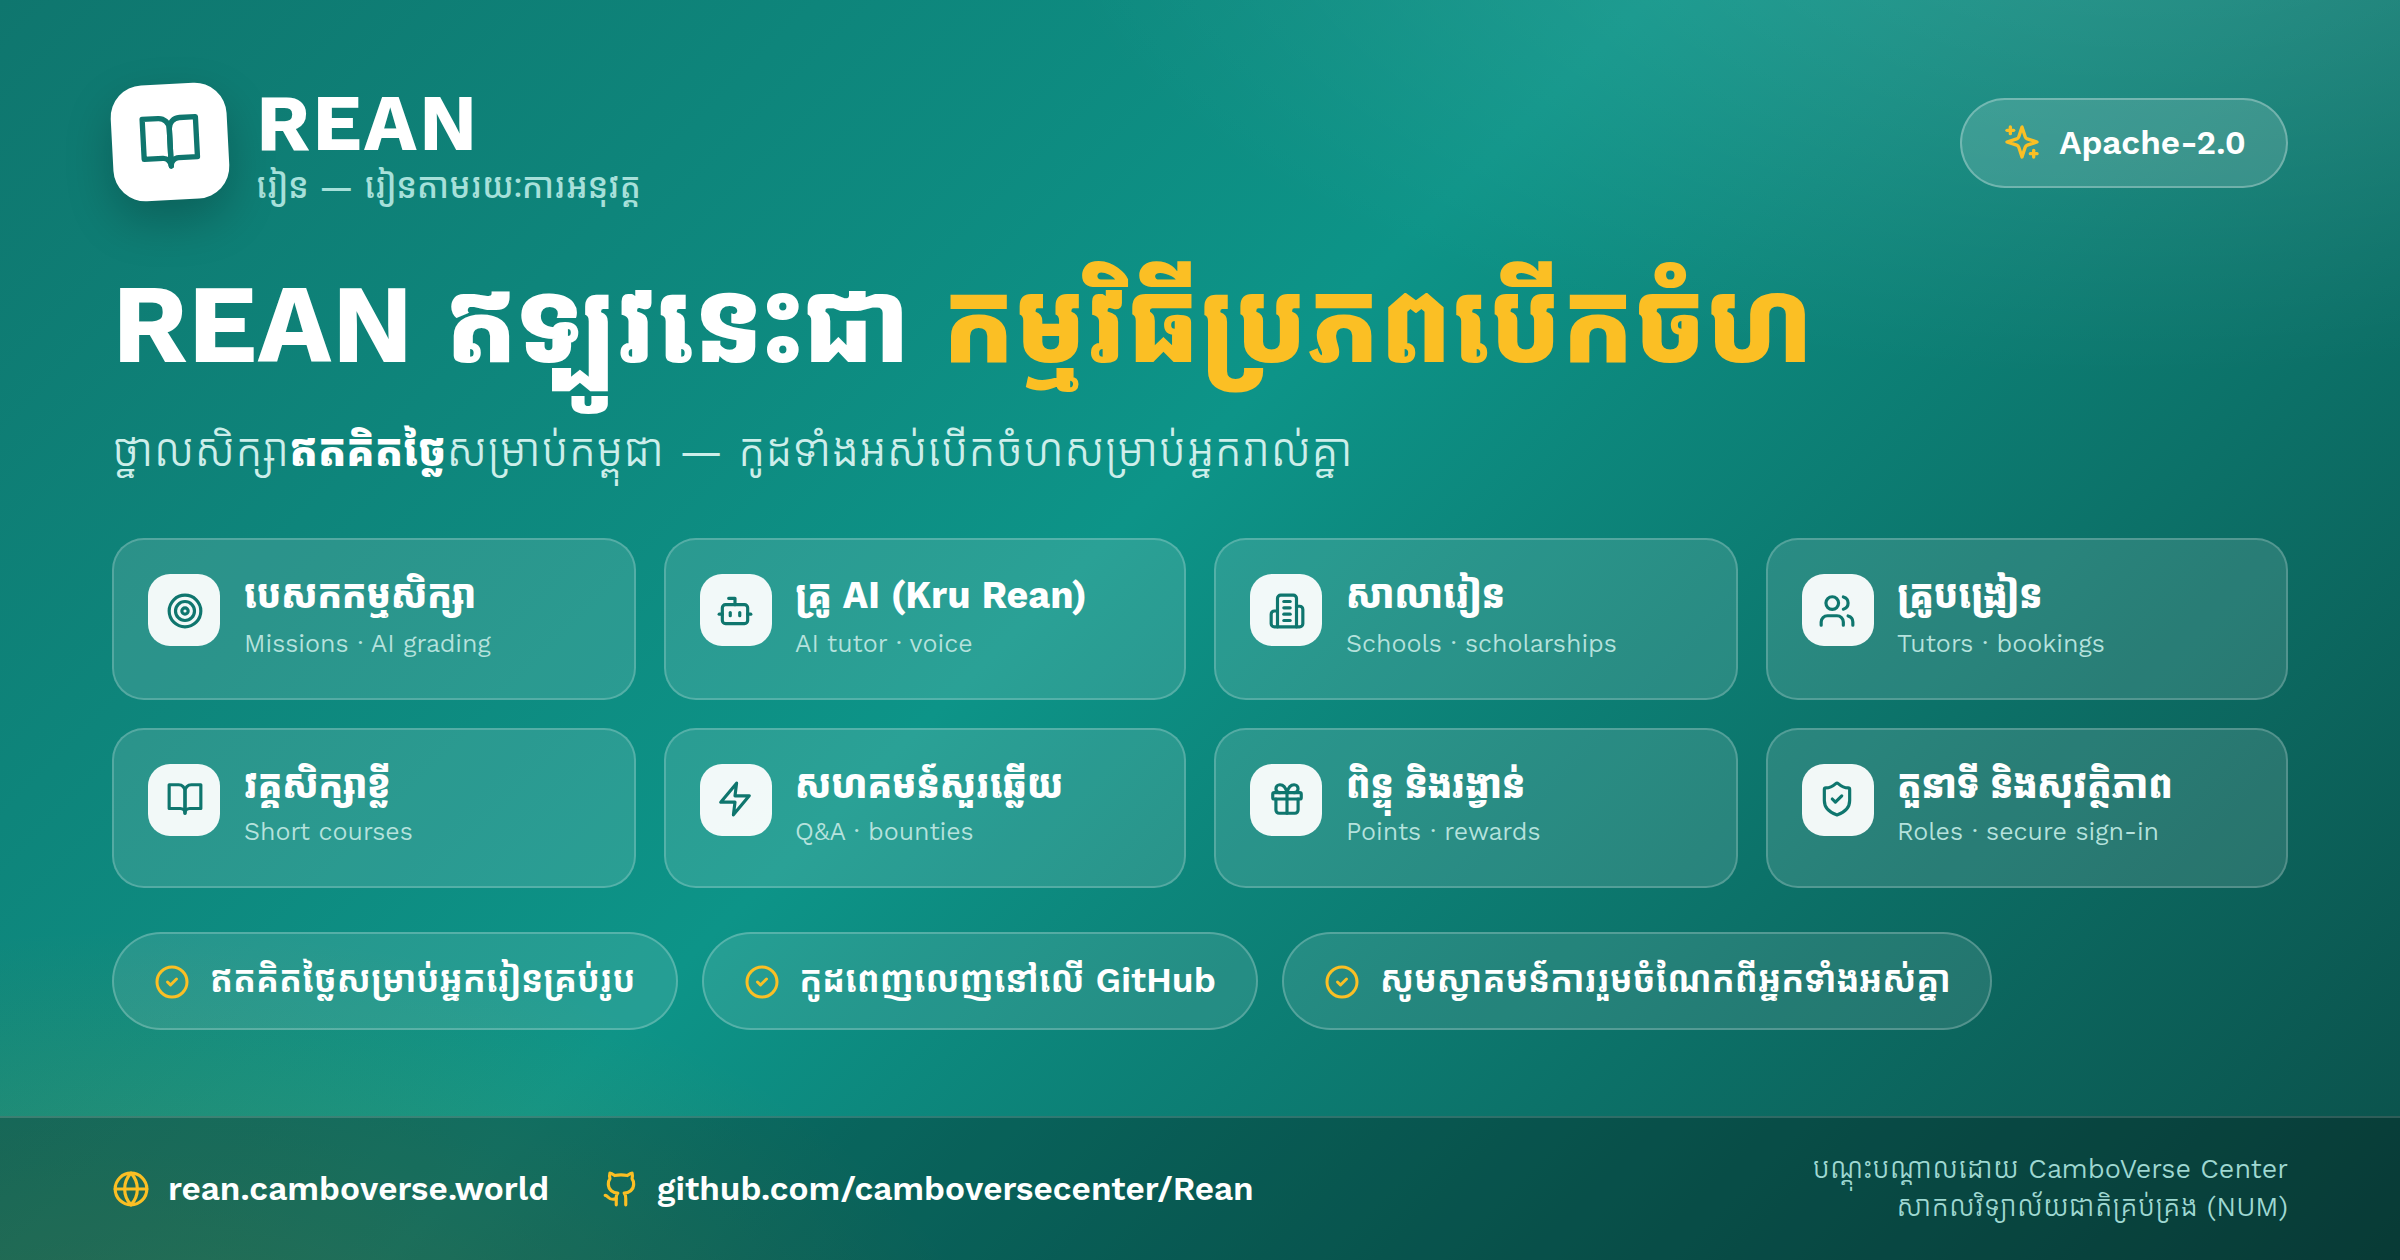
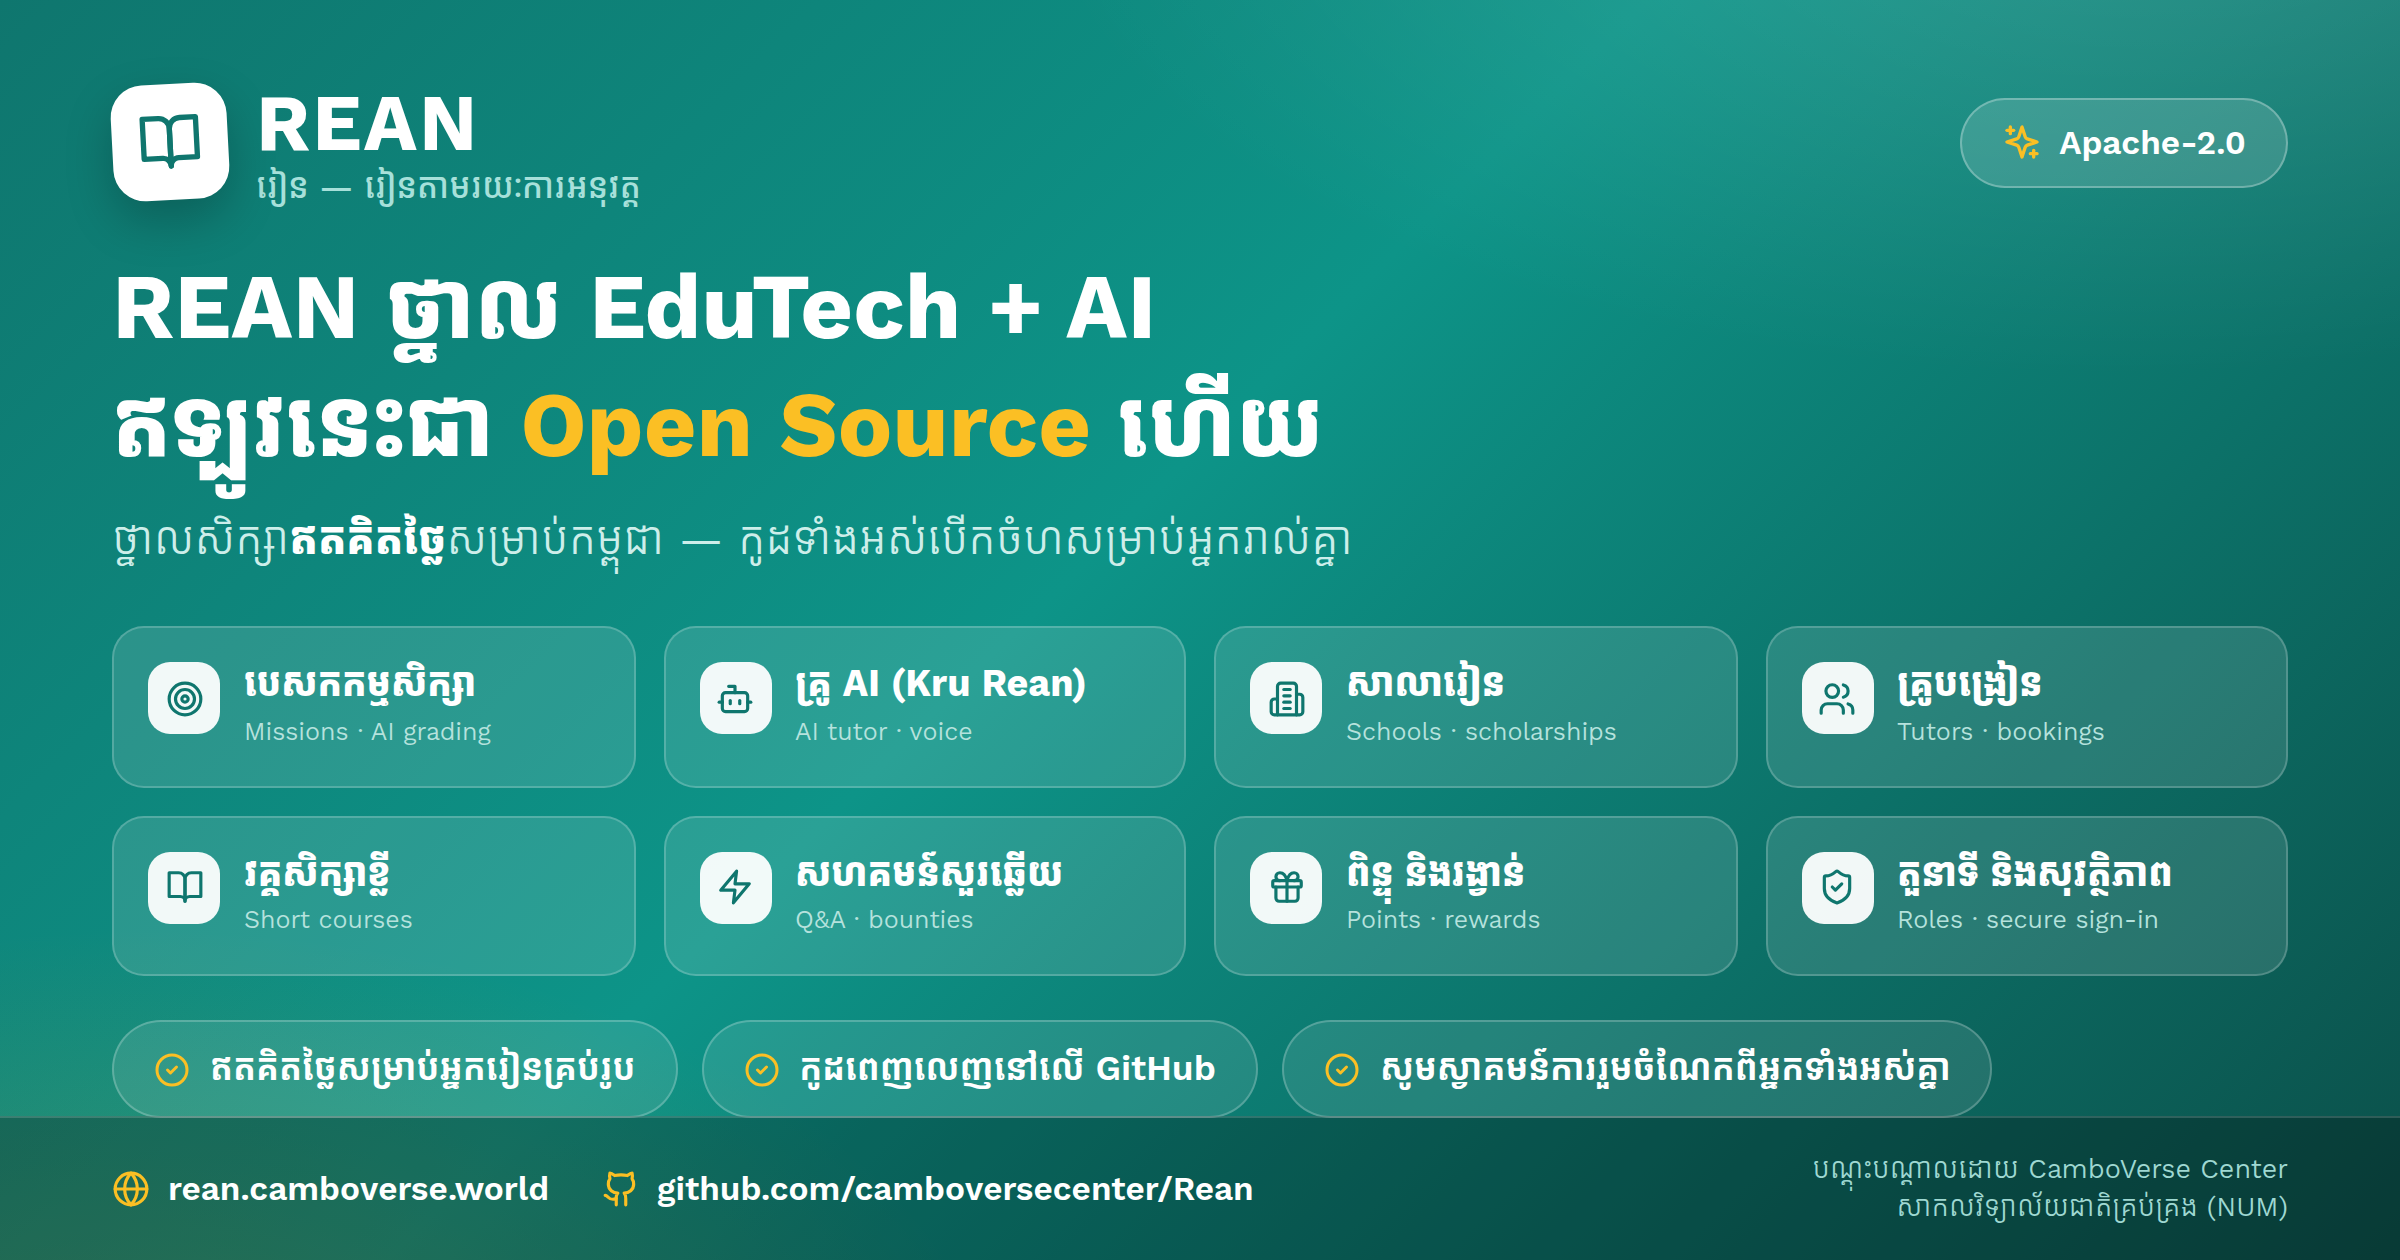
Lead the promo card with EduTech + AI
"កម្មវិធីប្រភពបើកចំហ" was the wrong way to say it. The headline now
names what REAN is before what changed about it:

  REAN ថ្នាល EduTech + AI
  ឥឡូវនេះជា Open Source ហើយ

"ថ្នាល" matches the word the site itself uses for platform, and the
release is announced with the English "Open Source", which reads more
naturally in Khmer tech writing than a translated coinage. Two lines at
46px rather than one at 56px, so the longer headline still fits above
the feature grid.

Claude-Session: https://claude.ai/code/session_01SqQnEWtvyT5EKnaeS66fGv

Changed region(s): [[0.0312, 0.1857, 0.9688, 0.8667]]

diff --git a/scripts/promo-open-source.html b/scripts/promo-open-source.html
@@ -146,9 +146,9 @@
       }
 
       h1 {
-        font-size: 56px;
+        font-size: 46px;
         font-weight: 800;
-        line-height: 1.35;
+        line-height: 1.3;
       }
 
       h1 .hl {
@@ -318,7 +318,10 @@
       </div>
 
       <div class="headline">
-        <h1>REAN ឥឡូវនេះជា <span class="hl">កម្មវិធីប្រភពបើកចំហ</span></h1>
+        <h1>
+          REAN ថ្នាល EduTech + AI<br />
+          ឥឡូវនេះជា <span class="hl">Open Source</span> ហើយ
+        </h1>
         <p class="sub">
           ថ្នាលសិក្សា<b>ឥតគិតថ្លៃ</b>សម្រាប់កម្ពុជា — កូដទាំងអស់បើកចំហសម្រាប់អ្នករាល់គ្នា
         </p>
